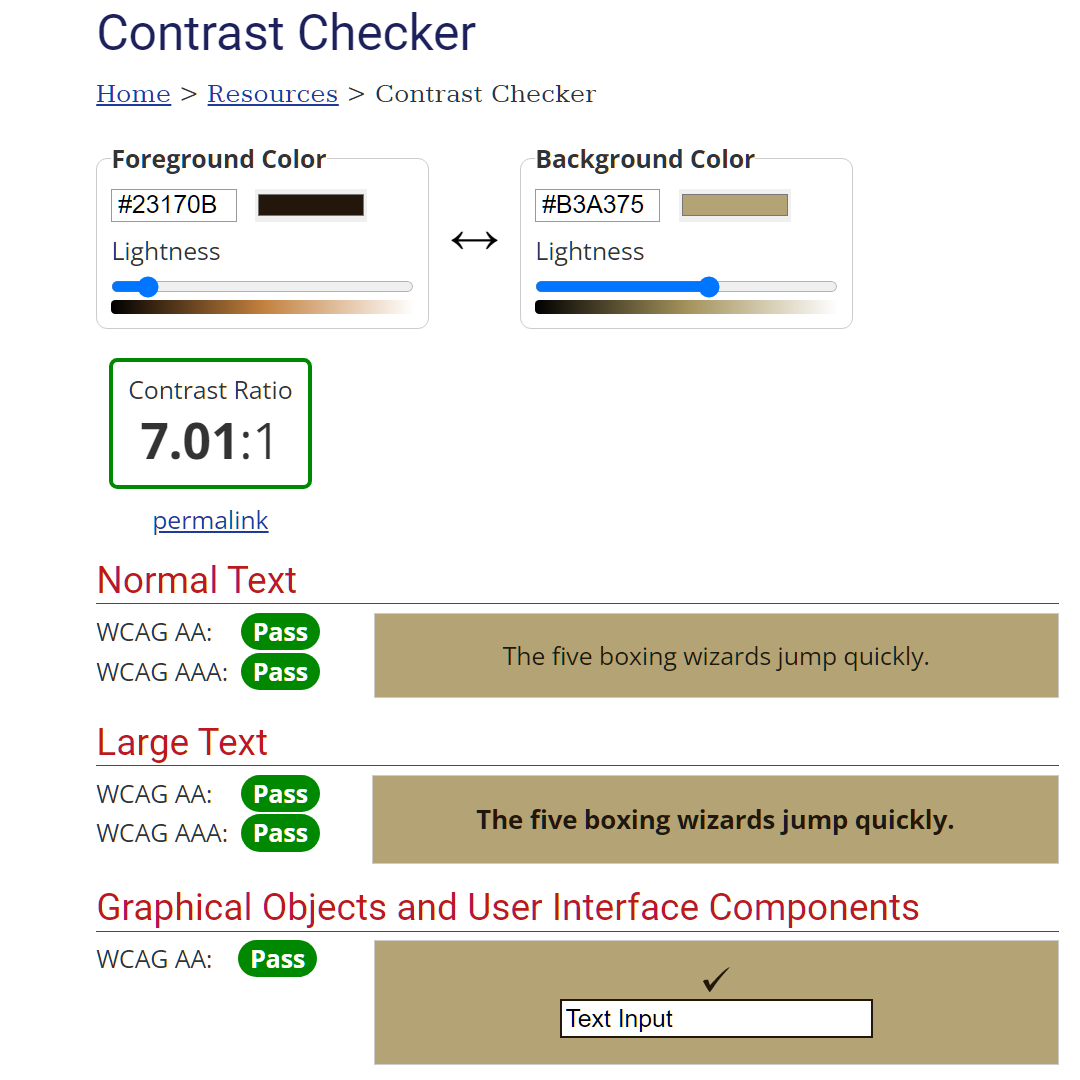
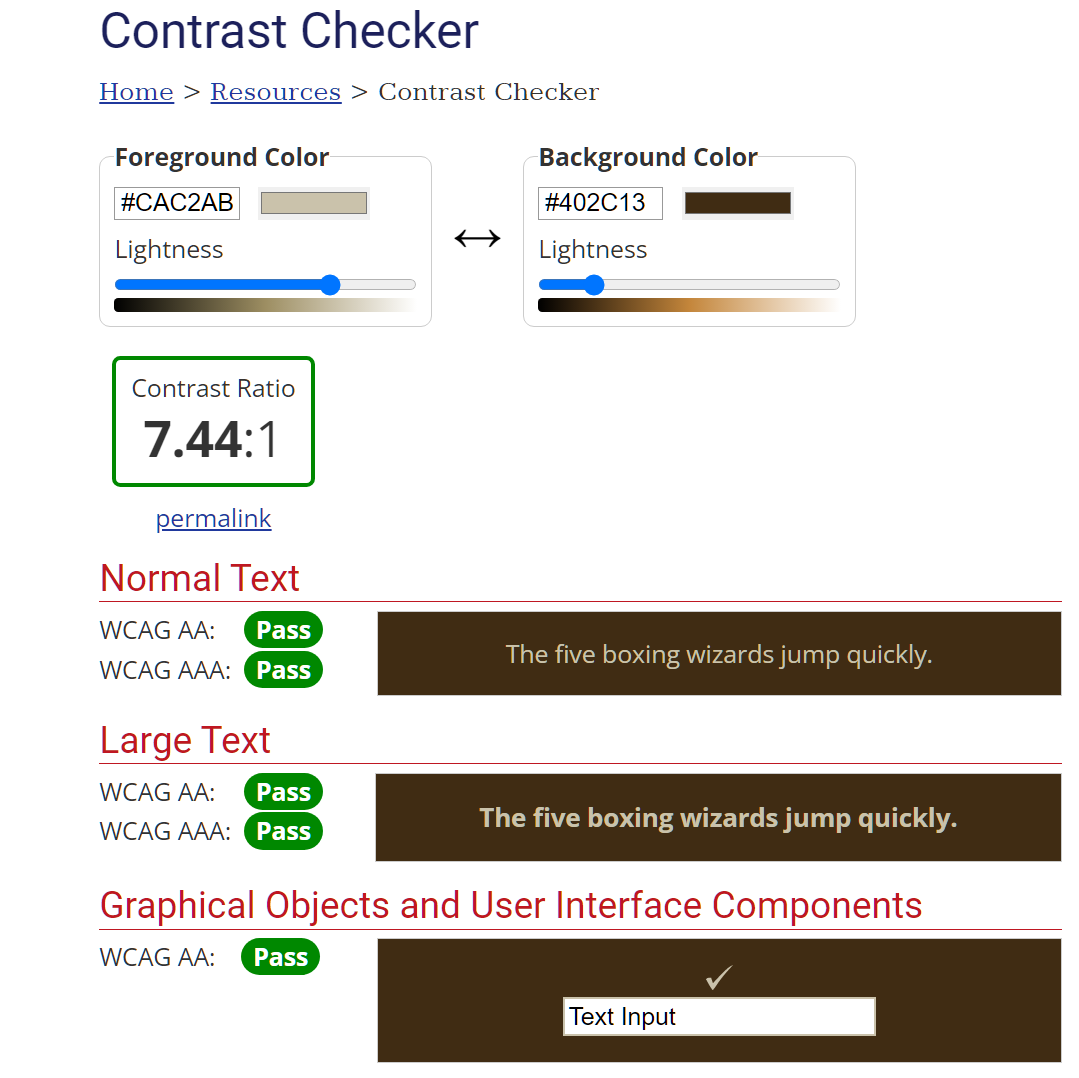
improved colour scheme section of README.md

diff --git a/README.md b/README.md
@@ -98,8 +98,16 @@ Contrast has been tested on WebAIM and colours have been adapted where necessary
 <br>
 
 ![Colour scheme](docs/colours/colour-scheme.png)
-![Main colour scheme WebAIM test](docs/colours/contrast1.png)
-![Secondary colour scheme WebAIM test](docs/colours/contrast2.png)
+<details><summary>Main colour-scheme WebAIM test </summary>
+<img src="docs/colours/contrast1.png">
+</details>
+<details><summary>Header/Footer colour-scheme WebAIM test </summary>
+<img src="docs/colours/contrast2.png">
+</details>
+<details><summary>Main colour scheme WebAIM test </summary>
+<img src="docs/colours/contrast3.png">
+</details>
+<br>
 
 ### Fonts
 Playfair-Display  with cursive as fallback was used for all tekst as to match the font used on thee physical menu.
